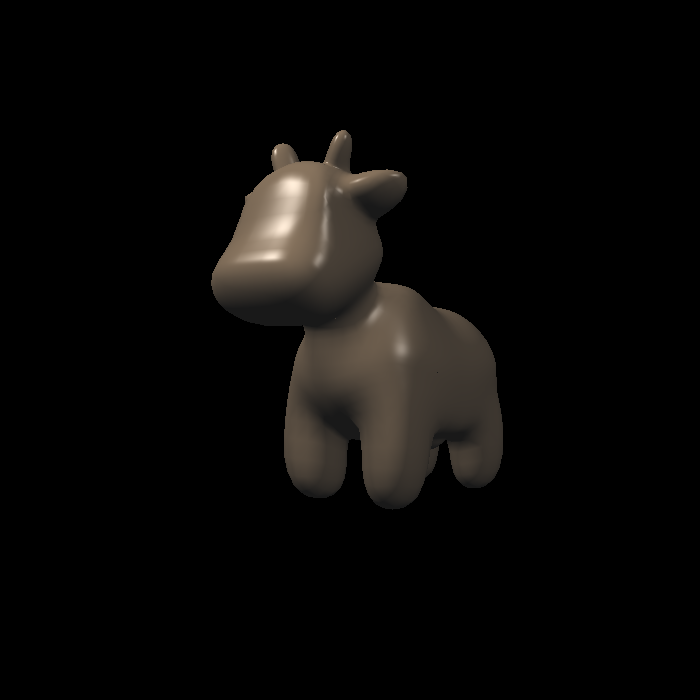
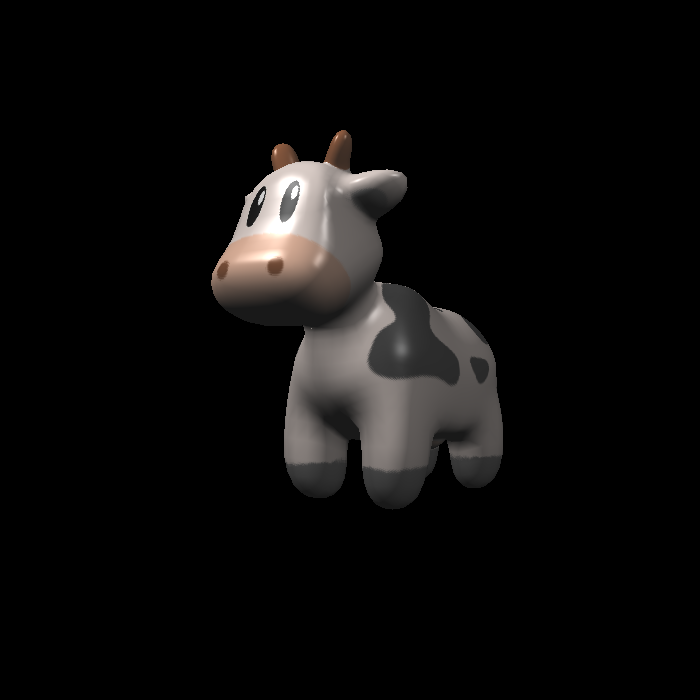
作业3进一步完善

Changed region(s): [[0.3, 0.21, 0.72, 0.69], [0.48, 0.18, 0.51, 0.21]]

diff --git a/Assignment3/main.cpp b/Assignment3/main.cpp
@@ -13,12 +13,12 @@ Eigen::Matrix4f get_view_matrix(Eigen::Vector3f eye_pos)
     Eigen::Matrix4f view = Eigen::Matrix4f::Identity();
 
     Eigen::Matrix4f translate;
-    translate << 1,0,0,-eye_pos[0],
-                 0,1,0,-eye_pos[1],
-                 0,0,1,-eye_pos[2],
-                 0,0,0,1;
+    translate << 1, 0, 0, -eye_pos[0],
+        0, 1, 0, -eye_pos[1],
+        0, 0, 1, -eye_pos[2],
+        0, 0, 0, 1;
 
-    view = translate*view;
+    view = translate * view;
 
     return view;
 }
@@ -28,21 +28,21 @@ Eigen::Matrix4f get_model_matrix(float angle)
     Eigen::Matrix4f rotation;
     angle = angle * MY_PI / 180.f;
     rotation << cos(angle), 0, sin(angle), 0,
-                0, 1, 0, 0,
-                -sin(angle), 0, cos(angle), 0,
-                0, 0, 0, 1;
+        0, 1, 0, 0,
+        -sin(angle), 0, cos(angle), 0,
+        0, 0, 0, 1;
 
     Eigen::Matrix4f scale;
     scale << 2.5, 0, 0, 0,
-              0, 2.5, 0, 0,
-              0, 0, 2.5, 0,
-              0, 0, 0, 1;
+        0, 2.5, 0, 0,
+        0, 0, 2.5, 0,
+        0, 0, 0, 1;
 
     Eigen::Matrix4f translate;
     translate << 1, 0, 0, 0,
-            0, 1, 0, 0,
-            0, 0, 1, 0,
-            0, 0, 0, 1;
+        0, 1, 0, 0,
+        0, 0, 1, 0,
+        0, 0, 0, 1;
 
     return translate * rotation * scale;
 }
@@ -51,40 +51,39 @@ Eigen::Matrix4f get_projection_matrix(float eye_fov, float aspect_ratio, float z
 {
     // TODO: Use the same projection matrix from the previous assignments
 
-        Eigen::Matrix4f projection = Eigen::Matrix4f::Identity();
+    Eigen::Matrix4f projection = Eigen::Matrix4f::Identity();
 
-    eye_fov=eye_fov*MY_PI/180.0f;
+    eye_fov = eye_fov * MY_PI / 180.0f;
     Eigen::Matrix4f orthoM = Eigen::Matrix4f::Identity();
-    float x = -zNear*(tanf(eye_fov/2));
-    float y = x/aspect_ratio;
-    float z = zNear-zFar;
-    orthoM<<1/x,0,0,0,
-            0,1/y,0,0,
-            0,0,2.0/z,0,
-            0,0,0,1;
+    float x = -zNear * (tanf(eye_fov / 2));
+    float y = x / aspect_ratio;
+    float z = zNear - zFar;
+    orthoM << 1 / x, 0, 0, 0,
+        0, 1 / y, 0, 0,
+        0, 0, 2.0 / z, 0,
+        0, 0, 0, 1;
     Eigen::Matrix4f tmp;
-    tmp<<1,0,0,0,
-        0,1,0,0,
-        0,0,1,-(zNear+zFar)/2,
-        0,0,0,1;
+    tmp << 1, 0, 0, 0,
+        0, 1, 0, 0,
+        0, 0, 1, -(zNear + zFar) / 2,
+        0, 0, 0, 1;
     Eigen::Matrix4f perspToOrthoM;
-    perspToOrthoM<<zNear,0,0,0,
-                    0,zNear,0,0,
-                    0,0,zNear+zFar,-zNear*zFar,
-                    0,0,1,0;
+    perspToOrthoM << zNear, 0, 0, 0,
+        0, zNear, 0, 0,
+        0, 0, zNear + zFar, -zNear * zFar,
+        0, 0, 1, 0;
 
-    projection = orthoM*tmp*perspToOrthoM;
+    projection = orthoM * tmp * perspToOrthoM;
 
     return projection;
-
 }
 
-Eigen::Vector3f vertex_shader(const vertex_shader_payload& payload)
+Eigen::Vector3f vertex_shader(const vertex_shader_payload &payload)
 {
     return payload.position;
 }
 
-Eigen::Vector3f normal_fragment_shader(const fragment_shader_payload& payload)
+Eigen::Vector3f normal_fragment_shader(const fragment_shader_payload &payload)
 {
     Eigen::Vector3f return_color = (payload.normal.head<3>().normalized() + Eigen::Vector3f(1.0f, 1.0f, 1.0f)) / 2.f;
     Eigen::Vector3f result;
@@ -92,7 +91,7 @@ Eigen::Vector3f normal_fragment_shader(const fragment_shader_payload& payload)
     return result;
 }
 
-static Eigen::Vector3f reflect(const Eigen::Vector3f& vec, const Eigen::Vector3f& axis)
+static Eigen::Vector3f reflect(const Eigen::Vector3f &vec, const Eigen::Vector3f &axis)
 {
     auto costheta = vec.dot(axis);
     return (2 * costheta * axis - vec).normalized();
@@ -104,13 +103,13 @@ struct light
     Eigen::Vector3f intensity;
 };
 
-Eigen::Vector3f texture_fragment_shader(const fragment_shader_payload& payload)
+Eigen::Vector3f texture_fragment_shader(const fragment_shader_payload &payload)
 {
     Eigen::Vector3f return_color = {0, 0, 0};
     if (payload.texture)
     {
         // TODO: Get the texture value at the texture coordinates of the current fragment
-
+        return_color = payload.texture->getColor(payload.tex_coords.x(),payload.tex_coords.y());
     }
     Eigen::Vector3f texture_color;
     texture_color << return_color.x(), return_color.y(), return_color.z();
@@ -134,17 +133,27 @@ Eigen::Vector3f texture_fragment_shader(const fragment_shader_payload& payload)
 
     Eigen::Vector3f result_color = {0, 0, 0};
 
-    for (auto& light : lights)
+    for (auto &light : lights)
     {
-        // TODO: For each light source in the code, calculate what the *ambient*, *diffuse*, and *specular* 
+        // TODO: For each light source in the code, calculate what the *ambient*, *diffuse*, and *specular*
         // components are. Then, accumulate that result on the *result_color* object.
+        result_color += (ka.cwiseProduct(amb_light_intensity));
 
+        Eigen::Vector3f light_vec = (light.position - point);
+        Eigen::Vector3f vision_vec = (eye_pos - point);
+        Eigen::Vector3f half_vec = (light_vec + vision_vec).normalized();
+
+        // diffuse
+        result_color += (kd.cwiseProduct(light.intensity) / light_vec.squaredNorm() * std::max(0.f, normal.dot(light_vec.normalized())));
+
+        // specular
+        result_color += (ks.cwiseProduct(light.intensity) / light_vec.squaredNorm() * std::pow(std::max(0.f, normal.dot(half_vec)), p));
     }
 
     return result_color * 255.f;
 }
 
-Eigen::Vector3f phong_fragment_shader(const fragment_shader_payload& payload)
+Eigen::Vector3f phong_fragment_shader(const fragment_shader_payload &payload)
 {
     Eigen::Vector3f ka = Eigen::Vector3f(0.005, 0.005, 0.005);
     Eigen::Vector3f kd = payload.color;
@@ -164,32 +173,30 @@ Eigen::Vector3f phong_fragment_shader(const fragment_shader_payload& payload)
     Eigen::Vector3f normal = payload.normal;
 
     Eigen::Vector3f result_color = {0, 0, 0};
-    for (auto& light : lights)
+    for (auto &light : lights)
     {
-        // TODO: For each light source in the code, calculate what the *ambient*, *diffuse*, and *specular* 
+        // TODO: For each light source in the code, calculate what the *ambient*, *diffuse*, and *specular*
         // components are. Then, accumulate that result on the *result_color* object.
         // ambient
-        result_color+=(ka.cwiseProduct(amb_light_intensity));
+        result_color += (ka.cwiseProduct(amb_light_intensity));
 
-        Eigen::Vector3f light_vec=(light.position-point);
-        Eigen::Vector3f vision_vec=(eye_pos-point);
-        Eigen::Vector3f half_vec=(light_vec+vision_vec).normalized();
+        Eigen::Vector3f light_vec = (light.position - point);
+        Eigen::Vector3f vision_vec = (eye_pos - point);
+        Eigen::Vector3f half_vec = (light_vec + vision_vec).normalized();
 
         // diffuse
-        result_color+=(kd.cwiseProduct(light.intensity)/light_vec.squaredNorm()*std::max(0.f,normal.dot(light_vec.normalized())));
-        
+        result_color += (kd.cwiseProduct(light.intensity) / light_vec.squaredNorm() * std::max(0.f, normal.dot(light_vec.normalized())));
+
         // specular
-        result_color+=(ks.cwiseProduct(light.intensity)/light_vec.squaredNorm()*std::pow(std::max(0.f,normal.dot(half_vec)),p));
+        result_color += (ks.cwiseProduct(light.intensity) / light_vec.squaredNorm() * std::pow(std::max(0.f, normal.dot(half_vec)), p));
     }
 
     return result_color * 255.f;
 }
 
-
-
-Eigen::Vector3f displacement_fragment_shader(const fragment_shader_payload& payload)
+Eigen::Vector3f displacement_fragment_shader(const fragment_shader_payload &payload)
 {
-    
+
     Eigen::Vector3f ka = Eigen::Vector3f(0.005, 0.005, 0.005);
     Eigen::Vector3f kd = payload.color;
     Eigen::Vector3f ks = Eigen::Vector3f(0.7937, 0.7937, 0.7937);
@@ -203,12 +210,12 @@ Eigen::Vector3f displacement_fragment_shader(const fragment_shader_payload& payl
 
     float p = 150;
 
-    Eigen::Vector3f color = payload.color; 
+    Eigen::Vector3f color = payload.color;
     Eigen::Vector3f point = payload.view_pos;
     Eigen::Vector3f normal = payload.normal;
 
     float kh = 0.2, kn = 0.1;
-    
+
     // TODO: Implement displacement mapping here
     // Let n = normal = (x, y, z)
     // Vector t = (x*y/sqrt(x*x+z*z),sqrt(x*x+z*z),z*y/sqrt(x*x+z*z))
@@ -220,24 +227,35 @@ Eigen::Vector3f displacement_fragment_shader(const fragment_shader_payload& payl
     // Position p = p + kn * n * h(u,v)
     // Normal n = normalize(TBN * ln)
 
+    auto n = normal;
+    float x = payload.view_pos.x();
+    float y = payload.view_pos.y();
+    float z = payload.view_pos.z();
+    Eigen::Vector3f t(x*y/std::sqrt(x*x+z*z),std::sqrt(x*x+z*z),z*y/std::sqrt(x*x+z*z));
+    Eigen::Vector3f b = n.cross(t);
+
+    Eigen::Matrix3f TBN;
+    TBN<<t,b,n;
+
+    auto dU = kh*kn*
+
+
+
 
     Eigen::Vector3f result_color = {0, 0, 0};
 
-    for (auto& light : lights)
+    for (auto &light : lights)
     {
-        // TODO: For each light source in the code, calculate what the *ambient*, *diffuse*, and *specular* 
+        // TODO: For each light source in the code, calculate what the *ambient*, *diffuse*, and *specular*
         // components are. Then, accumulate that result on the *result_color* object.
-
-
     }
 
     return result_color * 255.f;
 }
 
-
-Eigen::Vector3f bump_fragment_shader(const fragment_shader_payload& payload)
+Eigen::Vector3f bump_fragment_shader(const fragment_shader_payload &payload)
 {
-    
+
     Eigen::Vector3f ka = Eigen::Vector3f(0.005, 0.005, 0.005);
     Eigen::Vector3f kd = payload.color;
     Eigen::Vector3f ks = Eigen::Vector3f(0.7937, 0.7937, 0.7937);
@@ -251,10 +269,9 @@ Eigen::Vector3f bump_fragment_shader(const fragment_shader_payload& payload)
 
     float p = 150;
 
-    Eigen::Vector3f color = payload.color; 
+    Eigen::Vector3f color = payload.color;
     Eigen::Vector3f point = payload.view_pos;
     Eigen::Vector3f normal = payload.normal;
-
 
     float kh = 0.2, kn = 0.1;
 
@@ -268,16 +285,15 @@ Eigen::Vector3f bump_fragment_shader(const fragment_shader_payload& payload)
     // Vector ln = (-dU, -dV, 1)
     // Normal n = normalize(TBN * ln)
 
-
     Eigen::Vector3f result_color = {0, 0, 0};
     result_color = normal;
 
     return result_color * 255.f;
 }
 
-int main(int argc, const char** argv)
+int main(int argc, const char **argv)
 {
-    std::vector<Triangle*> TriangleList;
+    std::vector<Triangle *> TriangleList;
 
     float angle = 140.0;
     bool command_line = false;
@@ -287,17 +303,17 @@ int main(int argc, const char** argv)
     std::string obj_path = "models/spot/";
 
     // Load .obj File
-    bool loadout = Loader.LoadFile(obj_path+"spot_triangulated_good.obj");
-    for(auto mesh:Loader.LoadedMeshes)
+    bool loadout = Loader.LoadFile(obj_path + "spot_triangulated_good.obj");
+    for (auto mesh : Loader.LoadedMeshes)
     {
-        for(int i=0;i<mesh.Vertices.size();i+=3)
+        for (int i = 0; i < mesh.Vertices.size(); i += 3)
         {
-            Triangle* t = new Triangle();
-            for(int j=0;j<3;j++)
+            Triangle *t = new Triangle();
+            for (int j = 0; j < 3; j++)
             {
-                t->setVertex(j,Vector4f(mesh.Vertices[i+j].Position.X,mesh.Vertices[i+j].Position.Y,mesh.Vertices[i+j].Position.Z,1.0));
-                t->setNormal(j,Vector3f(mesh.Vertices[i+j].Normal.X,mesh.Vertices[i+j].Normal.Y,mesh.Vertices[i+j].Normal.Z));
-                t->setTexCoord(j,Vector2f(mesh.Vertices[i+j].TextureCoordinate.X, mesh.Vertices[i+j].TextureCoordinate.Y));
+                t->setVertex(j, Vector4f(mesh.Vertices[i + j].Position.X, mesh.Vertices[i + j].Position.Y, mesh.Vertices[i + j].Position.Z, 1.0));
+                t->setNormal(j, Vector3f(mesh.Vertices[i + j].Normal.X, mesh.Vertices[i + j].Normal.Y, mesh.Vertices[i + j].Normal.Z));
+                t->setTexCoord(j, Vector2f(mesh.Vertices[i + j].TextureCoordinate.X, mesh.Vertices[i + j].TextureCoordinate.Y));
             }
             TriangleList.push_back(t);
         }
@@ -344,7 +360,7 @@ int main(int argc, const char** argv)
         }
     }
 
-    Eigen::Vector3f eye_pos = {0,0,10};
+    Eigen::Vector3f eye_pos = {0, 0, 10};
 
     r.set_vertex_shader(vertex_shader);
     r.set_fragment_shader(active_shader);
@@ -369,7 +385,7 @@ int main(int argc, const char** argv)
         return 0;
     }
 
-    while(key != 27)
+    while (key != 27)
     {
         r.clear(rst::Buffers::Color | rst::Buffers::Depth);
 
@@ -377,7 +393,7 @@ int main(int argc, const char** argv)
         r.set_view(get_view_matrix(eye_pos));
         r.set_projection(get_projection_matrix(45.0, 1, 0.1, 50));
 
-        //r.draw(pos_id, ind_id, col_id, rst::Primitive::Triangle);
+        // r.draw(pos_id, ind_id, col_id, rst::Primitive::Triangle);
         r.draw(TriangleList);
         cv::Mat image(700, 700, CV_32FC3, r.frame_buffer().data());
         image.convertTo(image, CV_8UC3, 1.0f);
@@ -387,7 +403,7 @@ int main(int argc, const char** argv)
         cv::imwrite(filename, image);
         key = cv::waitKey(10);
 
-        if (key == 'a' )
+        if (key == 'a')
         {
             angle -= 0.1;
         }
@@ -395,7 +411,6 @@ int main(int argc, const char** argv)
         {
             angle += 0.1;
         }
-
     }
     return 0;
 }
